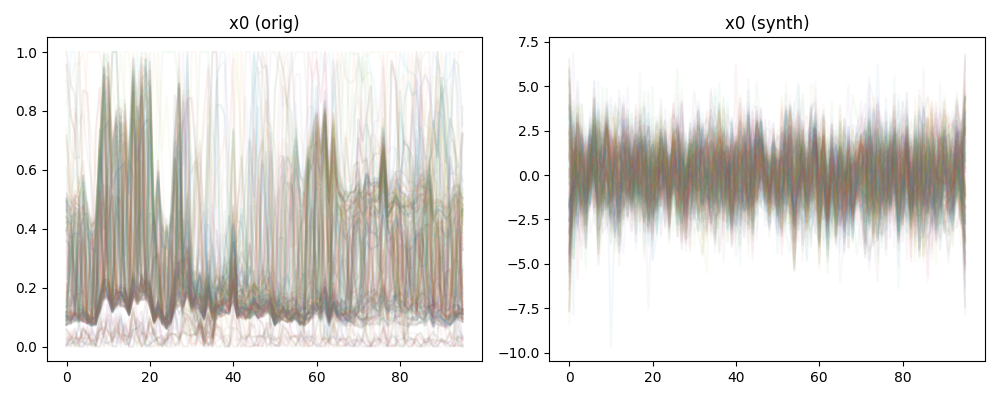
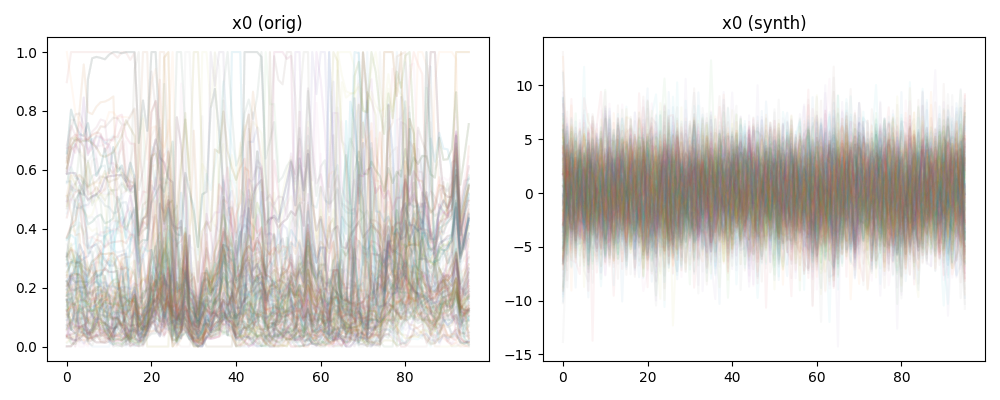
add

diff --git a/exp/exp_second_round/eva/evaconditionalgen/plot_result_ddpm_flow.py b/exp/exp_second_round/eva/evaconditionalgen/plot_result_ddpm_flow.py
@@ -21,7 +21,7 @@ import exp_second_round.eva.evaconditionalgen.eva_function as eva_function
 
 # -----------------------------------Load model and data-----------------------------------
 # import the dataloader
-batch_size = 2
+batch_size = 50
 split_ratio = (0.8,0.1,0.1)
 data_path =  'exp/data_process_for_data_collection_all/new_data_15minute_grid_nomerge.pkl'
 dataset = Dataloader_nolabel(data_path,  batch_size=batch_size
@@ -34,16 +34,13 @@ print('lenthg of test data: ', dataset.__len__()*split_ratio[1])
 device = torch.device('cuda' if torch.cuda.is_available() else 'cpu')
 
 # define the hyperparameters
-random_sample_num_vae = 16
+random_sample_num_vae = 4
 num_epochs = int(10000)
 input_shape=(250, 96)      # (C, L)
 hidden_dims= [32, 128, 256, 568]
 cond_dims = [32, 128, 256]
 
-# define the model
-# vae = vaemodel.ConvPoolVAE1D(input_shape=input_shape, condition_shape=(random_sample_num_vae, 96), 
-#                                     latent_channels=latent_channels,
-#                                     hidden_dims=hidden_dims, cond_dims=cond_dims).to(device)
+# define the model ddpm
 ddpm = ddpmmodel.FFD_NL(in_channels=250, 
                         hidden_channels=240,
                         condition_channels=random_sample_num_vae,
@@ -51,7 +48,7 @@ ddpm = ddpmmodel.FFD_NL(in_channels=250,
                         betas=ddpmmodel.linear_beta_schedule(300)).to(device)
 # load vae 4 shot
 if random_sample_num_vae == 4:
-    path = 'exp/exp_second_round/conditional_generativemodels/4shot/ddpm_720250_16shot.pt'
+    path = 'exp/exp_second_round/conditional_generativemodels/4shot/ddpm_710170_4shot.pt'
 elif random_sample_num_vae == 8:
     path = 'exp/exp_second_round/conditional_generativemodels/8shot/ddpm_720250_16shot.pt'
 elif random_sample_num_vae == 16:
@@ -61,31 +58,30 @@ elif random_sample_num_vae ==32:
     
 ddpm.load_state_dict(torch.load(path, map_location=device))
 
-# load gmm
-random_sample_num = 40
-n_components = 6    
-chw = (1, random_sample_num,  97)
-para_dim = n_components*2
-hidden_d = 96
-out_d = 96
-n_heads = 4
-mlp_ratio = 12
-n_blocks = 4
+# define the model flow
+flow = nfmodel.CNicemModel(input_c=250, 
+                            hidden_c=128, 
+                            condition_c=random_sample_num_vae, 
+                            n_layers=3).to(device)
 
-encoder = gmm_model.ViT_encodernopara(chw, hidden_d, out_d, n_heads, mlp_ratio, n_blocks).to(device) # Create the encoder model
-
-model_path = 'exp/exp_second_round/user_load_15minutes/model/_encoder_40_6306166.pth' # load state dict of the model
-model = torch.load(model_path, map_location=device)
-encoder.load_state_dict(model)
-embedding_para = torch.nn.Embedding(n_components*2, 1).to(device)
-emb_empty_token = torch.nn.Embedding(1, chw[2]).to(device)
-path_embedding = 'exp/exp_second_round/user_load_15minutes/model/_embedding_40_6306166.pth'
-emb_weight = torch.load(path_embedding, map_location=device, weights_only=False)
-path_empty = 'exp/exp_second_round/user_load_15minutes/model/_emb_empty_token_40_6306166.pth'
-empty_token_vec = torch.load(path_empty, map_location=device,weights_only=False)
+# load flow 4 shot
+if random_sample_num_vae == 4:
+    path = 'exp/exp_second_round/conditional_generativemodels/4shot/flow_882414_4shot.pt'
+elif random_sample_num_vae == 8:
+    path = 'exp/exp_second_round/conditional_generativemodels/8shot/flow_882414_8shot.pt'
+elif random_sample_num_vae == 16:
+    path = 'exp/exp_second_round/conditional_generativemodels/16shot/flow_882414_16shot.pt'
+elif random_sample_num_vae ==32:
+    path = 'exp/exp_second_round/conditional_generativemodels/32shot/flow_882414_32shot.pt'
+flow.load_state_dict(torch.load(path, map_location=device))
 
 # load data
-test_sample = dataset.load_test_data(batch_size)
+test_sample = dataset.load_test_data(batch_size, _sample_indx=[58,59])  # (B,N,L)
+print('test sample shape: ', test_sample.shape)
+# Use 5 and 6 th sample for testing
+
+# test_sample = test_sample[_index, :, :]   # (B,N,L)
+# test_sample = test_sample[:, :, :-1]   # (B,N,L)
 test_sample = torch.tensor(test_sample, dtype=torch.float32).to(device)
 
 # normalize the input data
@@ -93,9 +89,6 @@ _test_min,_ = test_sample.min(axis=1, keepdim=True)
 _test_max,_ = test_sample.max(axis=1, keepdim=True)
 test_sample = (test_sample - _test_min)/(_test_max-_test_min+1e-15)
 
-# -----------------------------------Plot the result-----------------------------------
-# vae
-ddpm.eval()
 # random_sample a number between min_random_sample_num and random_sample_num
 _test_sample_part = rs.random_sample(test_sample , 'random', random_sample_num_vae)
 
@@ -106,58 +99,49 @@ _test_sample_part = _test_sample_part.to(device)
 _test_sample_part = _test_sample_part.double()
 test_sample = test_sample.double()
 
-recon = ddpmmodel.sampling(ddpm, _test_sample_part)
+# -----------------------------------Plot the result-----------------------------------
+# ddpm eval
+ddpm.eval()
+
+recon = ddpmmodel.sampling(ddpm, _test_sample_part[:, : ,:-1])
 recon = recon.float()
 
-# # gmm
-# # change _test_sample_part to float
-# encoder.eval()
-# _test_sample_part_emb = gmm_train_tool.pad_and_embed(_test_sample_part, random_sample_num, random_sample_num_vae,
-#                                         emb_empty_token, device)
-# _ms, _covs = ep.GMM_PyTorch_Batch(n_components, _test_sample_part[:,:, :-1].shape[-1]).fit(_test_sample_part[:,:, :-1], 1) # _ms: (b, n_components, 24), _covs: (b, n_components, 24)
-# _ms = torch.zeros(_ms.shape[0], n_components, 96).to(device)
-# _covs = torch.ones(_ms.shape[0], n_components, 96).to(device)
+print(recon.shape, test_sample.shape, _test_sample_part.shape)
 
-    
-# # concatenate the mean and variance to have (b, n_components*2, 25)
-# _param_emb, _param = gmm_train_tool.concatenate_and_embed_params(_ms, _covs, n_components, embedding_para, device)
+# flow eval
+flow.eval()
+z = torch.randn(recon.shape, device=device)
+# print(z.shape, _test_sample_part[:, : ,:-1].shape)
+recon_flow, _ = flow.inverse(z, _test_sample_part[:, : ,:-1])
 
-# # feed into the encoder
-# _test_sample_part_emb = torch.cat((_param_emb, _test_sample_part_emb), dim=1)
-# encoder_out = encoder(_test_sample_part_emb)
-# _new_para = encoder_out[:, :n_components*2, :]
-# _new_para = encoder.output_adding_layer(_new_para, _param)
 
-# # get the mean and covariance
-# mean = _new_para[:, :n_components* 96].view(-1, n_components, 96)
-# cov = _new_para[:, n_components* 96:].view(-1, n_components, 96)
-
-# t_samples_list = []
-# r_samples_list = []
-# r_samples_part_list = []
-# vae_sample_list = []
-# for i in range(mean.shape[0]):
-#     # samples scaled
-#     samples_gmm, gmm = plot_eva.sample_from_gmm(n_components, _new_para, i) # num
-#     samples_vae = recon[i]
-#     samples_partial = _test_sample_part[i]
-#     samples_real = test_sample[i]
+f_samples_list = []
+r_samples_list = []
+r_samples_part_list = []
+ddpm_sample_list = []
+for i in range(2):
+    # samples scaled
+    samples_ddpm = recon[i]
+    samples_partial = _test_sample_part[i]
+    samples_real = test_sample[i]
+    samples_flow = recon_flow[i]
+    # recover the samples
+    _max = _test_max[i][:,:-1]
+    _min = _test_min[i][:,:-1]
     
-#     # recover the samples
-#     _max = _test_max[i][:,:-1]
-#     _min = _test_min[i][:,:-1]
-#     samples_gmm = torch.tensor(samples_gmm, dtype=torch.float32).to(device)
-#     samples_gmm = samples_gmm * (_max - _min) + _min
-#     samples_vae = samples_vae *  (_max - _min) + _min
-#     samples_partial = samples_partial[:,:-1] *  (_max - _min) + _min
-#     samples_real = samples_real[:,:-1] *  (_max - _min) + _min
+    samples_ddpm = samples_ddpm *  (_max - _min) + _min
+    samples_flow = samples_flow *  (_max - _min) + _min
+    samples_partial = samples_partial[:,:-1] *  (_max - _min) + _min
+    samples_real = samples_real[:,:-1] *  (_max - _min) + _min
     
-#     # add the samples to the list
-#     t_samples_list.append(samples_gmm.cpu().detach().numpy())
-#     r_samples_list.append(samples_real.cpu().detach().numpy())
-#     r_samples_part_list.append(samples_partial.cpu().detach().numpy())
-#     vae_sample_list.append(samples_vae.cpu().detach().numpy())
+    # add the samples to the list
+    r_samples_list.append(samples_real.cpu().detach().numpy())
+    r_samples_part_list.append(samples_partial.cpu().detach().numpy())
+    ddpm_sample_list.append(samples_ddpm.cpu().detach().numpy())
+    # t_samples_list.append(samples_gmm.cpu().detach().numpy())
+    f_samples_list.append(samples_flow.cpu().detach().numpy())
     
-# save_path = f'exp/exp_second_round/conditional_generativemodels/{random_sample_num_vae}shot/plot/{random_sample_num_vae}_plot.png'
-# eva_function.create_plots(t_samples_list, r_samples_list, r_samples_part_list, vae_sample_list, save_path)
+t_samples_list = r_samples_part_list
+save_path = f'exp/exp_second_round/conditional_generativemodels/{random_sample_num_vae}shot/plot/{random_sample_num_vae}_plot_ddpmflow.png'
+eva_function.create_plots2(f_samples_list, r_samples_list, r_samples_part_list, ddpm_sample_list, save_path)
         

diff --git a/exp/exp_second_round/eva/evaconditionalgen/eva_function.py b/exp/exp_second_round/eva/evaconditionalgen/eva_function.py
@@ -306,6 +306,72 @@ def create_plots(t_samples_list, r_samples_list, r_samples_part_list, timesnet_s
     )
     plt.savefig(path, bbox_inches='tight')
 
+
+
+def create_plots2(t_samples_list, r_samples_list, r_samples_part_list, timesnet_sample_list, path, label_fontsize=26, tick_fontsize=20):
+    # Determine the number of rows based on the number of sample sets
+    num_rows = len(t_samples_list)
+
+    # Set up the subplots grid with num_rows and 4 columns
+    fig, axs = plt.subplots(num_rows, 4, figsize=(25, num_rows * 4), sharex=True, sharey=False)
+
+    # Iterate over each set of samples
+    for row in range(num_rows):
+        r_samples = r_samples_list[row]
+        r_samples_part = r_samples_part_list[row]
+        t_samples = t_samples_list[row]
+        timesnet_sample = timesnet_sample_list[row][:250, :]
+
+        # Calculate the total daily consumption for this row
+        total_consumption = r_samples.sum(axis=1)
+        color_map = plt.cm.coolwarm  # Choose a color map that transitions from red to blue
+        norm = plt.Normalize(total_consumption.min(), total_consumption.max())
+
+        # Get the y-axis limits for this row based on the Complete ECP Data
+        y_min, y_max = r_samples.min(), r_samples.max()
+
+        # Only the first row has titles for each plot with increased font size
+        display_title = row == 0
+        title_fontsize = label_fontsize if display_title else 0  # Increase font size for the first row titles
+
+        # Define titles only for the first row
+        titles = ['Complete ECP Data', 'Sampled Data', 'Conditional Flow', 'Conditional DDPM']
+
+        plot_colored_curves(axs[row, 0], r_samples, titles[0], total_consumption, color_map, norm, y_min, y_max, 0.2, tick_fontsize, display_title, title_fontsize)
+        plot_colored_curves(axs[row, 1], r_samples_part, titles[1], total_consumption, color_map, norm, y_min, y_max, 0.5, tick_fontsize, display_title, title_fontsize)
+        plot_colored_curves(axs[row, 2], t_samples, titles[2], total_consumption, color_map, norm, y_min, y_max, 0.2, tick_fontsize, display_title, title_fontsize)
+        plot_colored_curves(axs[row, 3], timesnet_sample, titles[3], total_consumption, color_map, norm, y_min, y_max, 0.2, tick_fontsize, display_title, title_fontsize)
+
+        # Add a color bar next to the last plot in this row
+        divider = make_axes_locatable(axs[row, 3])
+        cax = divider.append_axes("right", size="5%", pad=0.15)
+        sm = plt.cm.ScalarMappable(cmap=color_map, norm=norm)
+        sm.set_array([])
+        cbar = plt.colorbar(sm, cax=cax)
+        cbar.ax.tick_params(labelsize=tick_fontsize)  # Set the fontsize here
+
+    # Add a single x and y label for the whole figure
+    # fig.text(0.5, -0.01, 'Hour of Day [-]', ha='center', fontsize=label_fontsize)
+    # fig.text(0, 0.5, 'Electricity Consumption [kWh]', va='center', rotation='vertical', fontsize=label_fontsize)
+
+    fig.text(0.5, -0.01, 'Hour of Day [-]', ha='center', fontsize=label_fontsize)
+    fig.text(0.01, 0.5, 'Electricity Consumption [kWh]', va='center', rotation='vertical', fontsize=label_fontsize)
+    # fig.supxlabel('Hour of Day [–]', fontsize=label_fontsize)
+    # fig.supylabel('Electricity Consumption [kWh]', fontsize=label_fontsize)
+
+
+    # Add a single color bar label in the middle of the last column
+    # fig.text(0.90, 0.5, 'Daily Generation [kWh]', va='center', rotation='vertical', fontsize=label_fontsize)
+    fig.text(0.90, 0.5, 'Daily Consmption [kWh]', va='center', rotation='vertical', fontsize=label_fontsize)
+    
+    fig.tight_layout(rect=[0, 0, 0.9, 1.0])    # reserve rightmost 10% for the colorbars
+    fig.subplots_adjust(
+    left=0.08,   # move the left edge of the subplots 10% in
+    bottom=0.15  # move the bottom edge of the subplots 10% up
+    )
+    plt.savefig(path, bbox_inches='tight')
+
+
 def few_shot_eva(encoder, timesnet_model, timesnet_model_mmd, _para, _token, val_data, min_shot=1, max_shot=25, _iter=10):
     # mmd
     mmd_rr_part_collection = []

diff --git a/exp/exp_second_round/conditional_generativemodels/ddpm_train.py b/exp/exp_second_round/conditional_generativemodels/ddpm_train.py
@@ -34,7 +34,7 @@ def main():
 
     # model/data shapes
     N, L              = 250, 96        # (channels, length)
-    random_sample_num = 8             # condition channels N'
+    random_sample_num = 4             # condition channels N'
     T                 = 300            # diffusion steps
     hidden_channels   = 240             # model hidden channels
     lr                = 2e-4
@@ -71,6 +71,12 @@ def main():
         betas=betas
     ).to(device)
 
+    path = 'exp/exp_second_round/conditional_generativemodels/{random_sample_num}shot/ddpm_711610_4shot.pt'
+    # load model if exists
+    if os.path.exists(path):
+        model.load_state_dict(torch.load(path))
+        print(f"Loaded model from {path}")
+    
     opt = optim.AdamW(model.parameters(), lr=lr, weight_decay=weight_decay)
 
     n_params = sum(p.numel() for p in model.parameters() if p.requires_grad)
@@ -123,7 +129,7 @@ def main():
             with torch.no_grad():
                 # sampling() from ddpm module (starts from noise, uses model+cond)
                 samples = ddpm.sampling(model, cond)  # (B, N, L)
-
+                print("Sampled data shape:", samples.shape, "cond shape:", cond.shape)
             # plot the first sample (many lines; faint alpha)
             fig = plt.figure(figsize=(10, 4))
             i = 0

diff --git a/exp/asset/dataloader.py b/exp/asset/dataloader.py
@@ -38,8 +38,10 @@ class Dataloader_nolabel():
         _train_data = self.images[:self.batch_size]
         return _train_data.astype(np.float64)
     
-    def load_test_data(self, size=64):
-        _sample_indx = np.random.choice(self._test_idx, size)
+    def load_test_data(self, size=64, _sample_indx=None):
+        print(self._test_idx)
+        if _sample_indx is None:
+            _sample_indx = np.random.choice(self._test_idx, size)
         _test_data = self.images[_sample_indx]
         return _test_data.astype(np.float64)
     

diff --git a/exp/asset/gmm_train_tool.py b/exp/asset/gmm_train_tool.py
@@ -6,7 +6,7 @@ import asset.em_pytorch as ep
 import asset.random_sampler as rs
 import asset.le_improved as le
 
-import wandb
+# import wandb
 
 def pad_and_embed(train_sample_part, random_sample_num, random_num, emb_empty_token, device):
     # create an index tensor for the empty token
